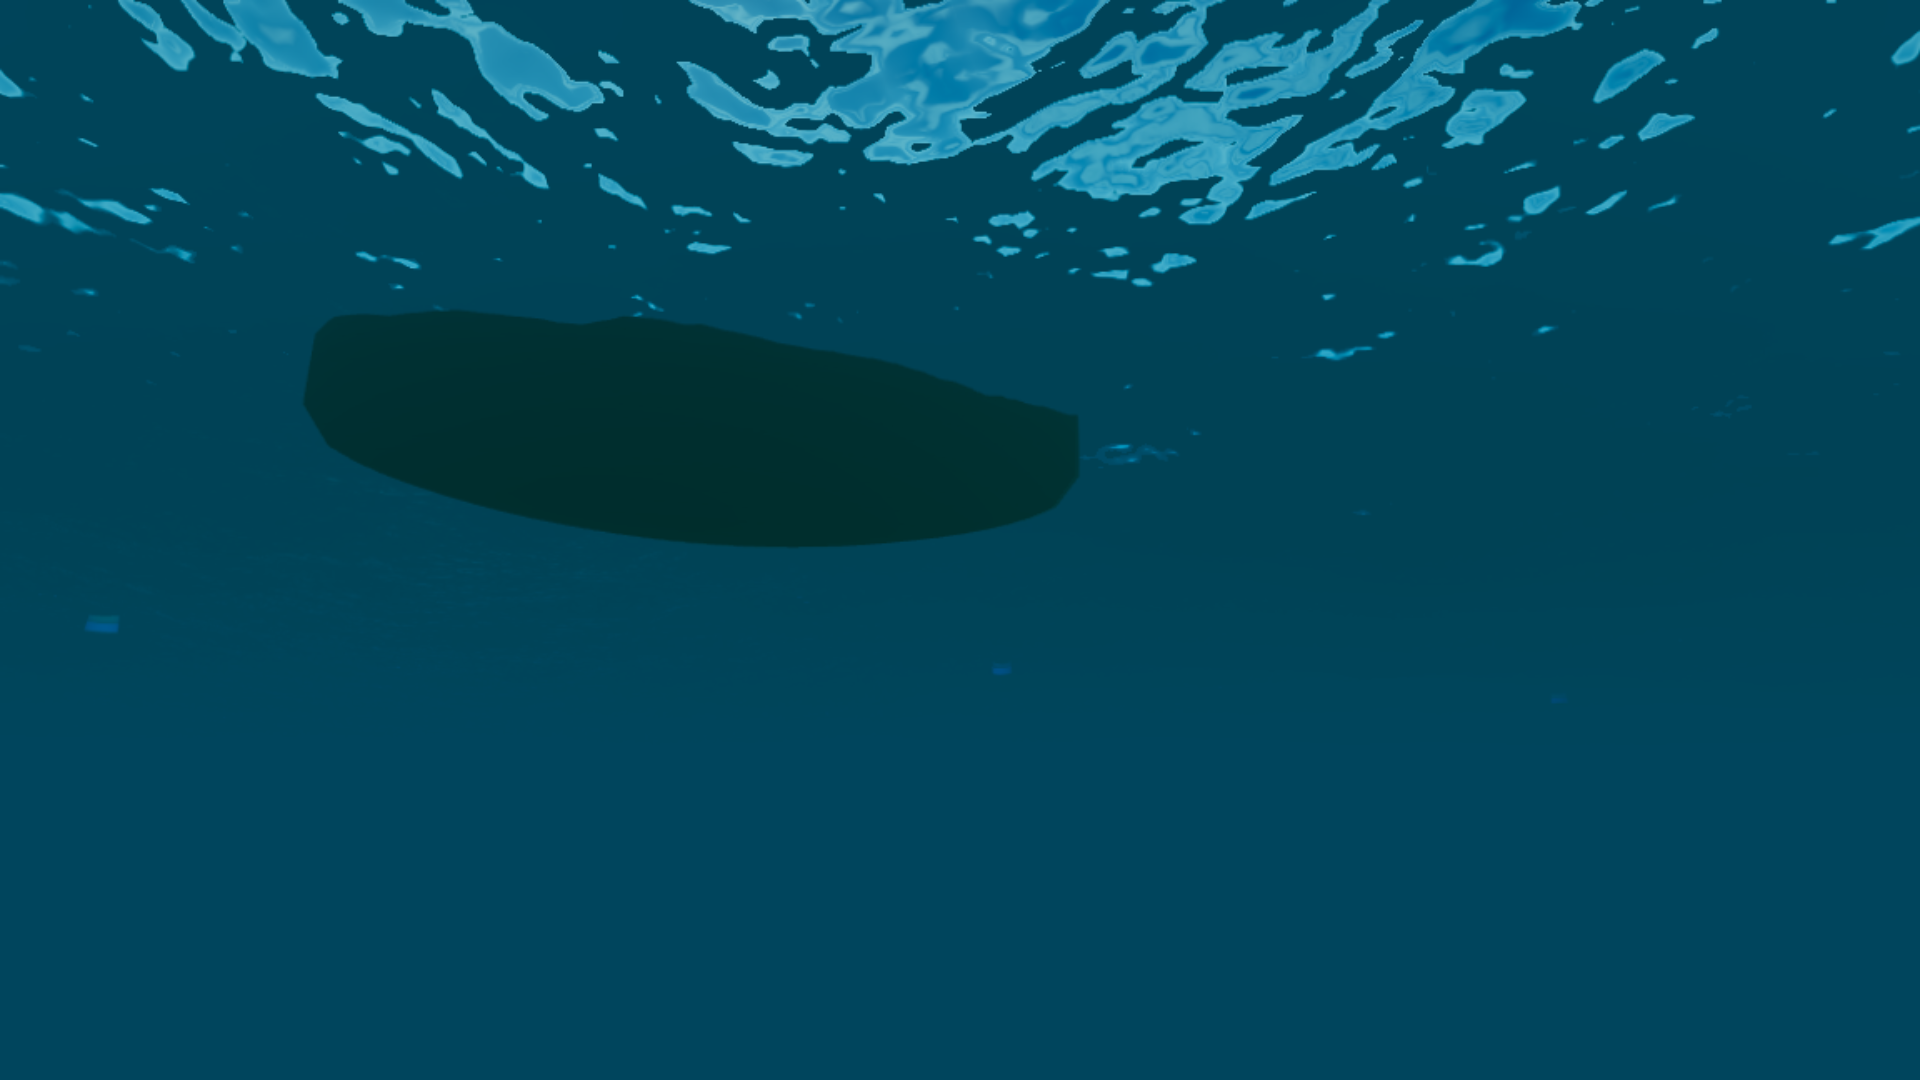
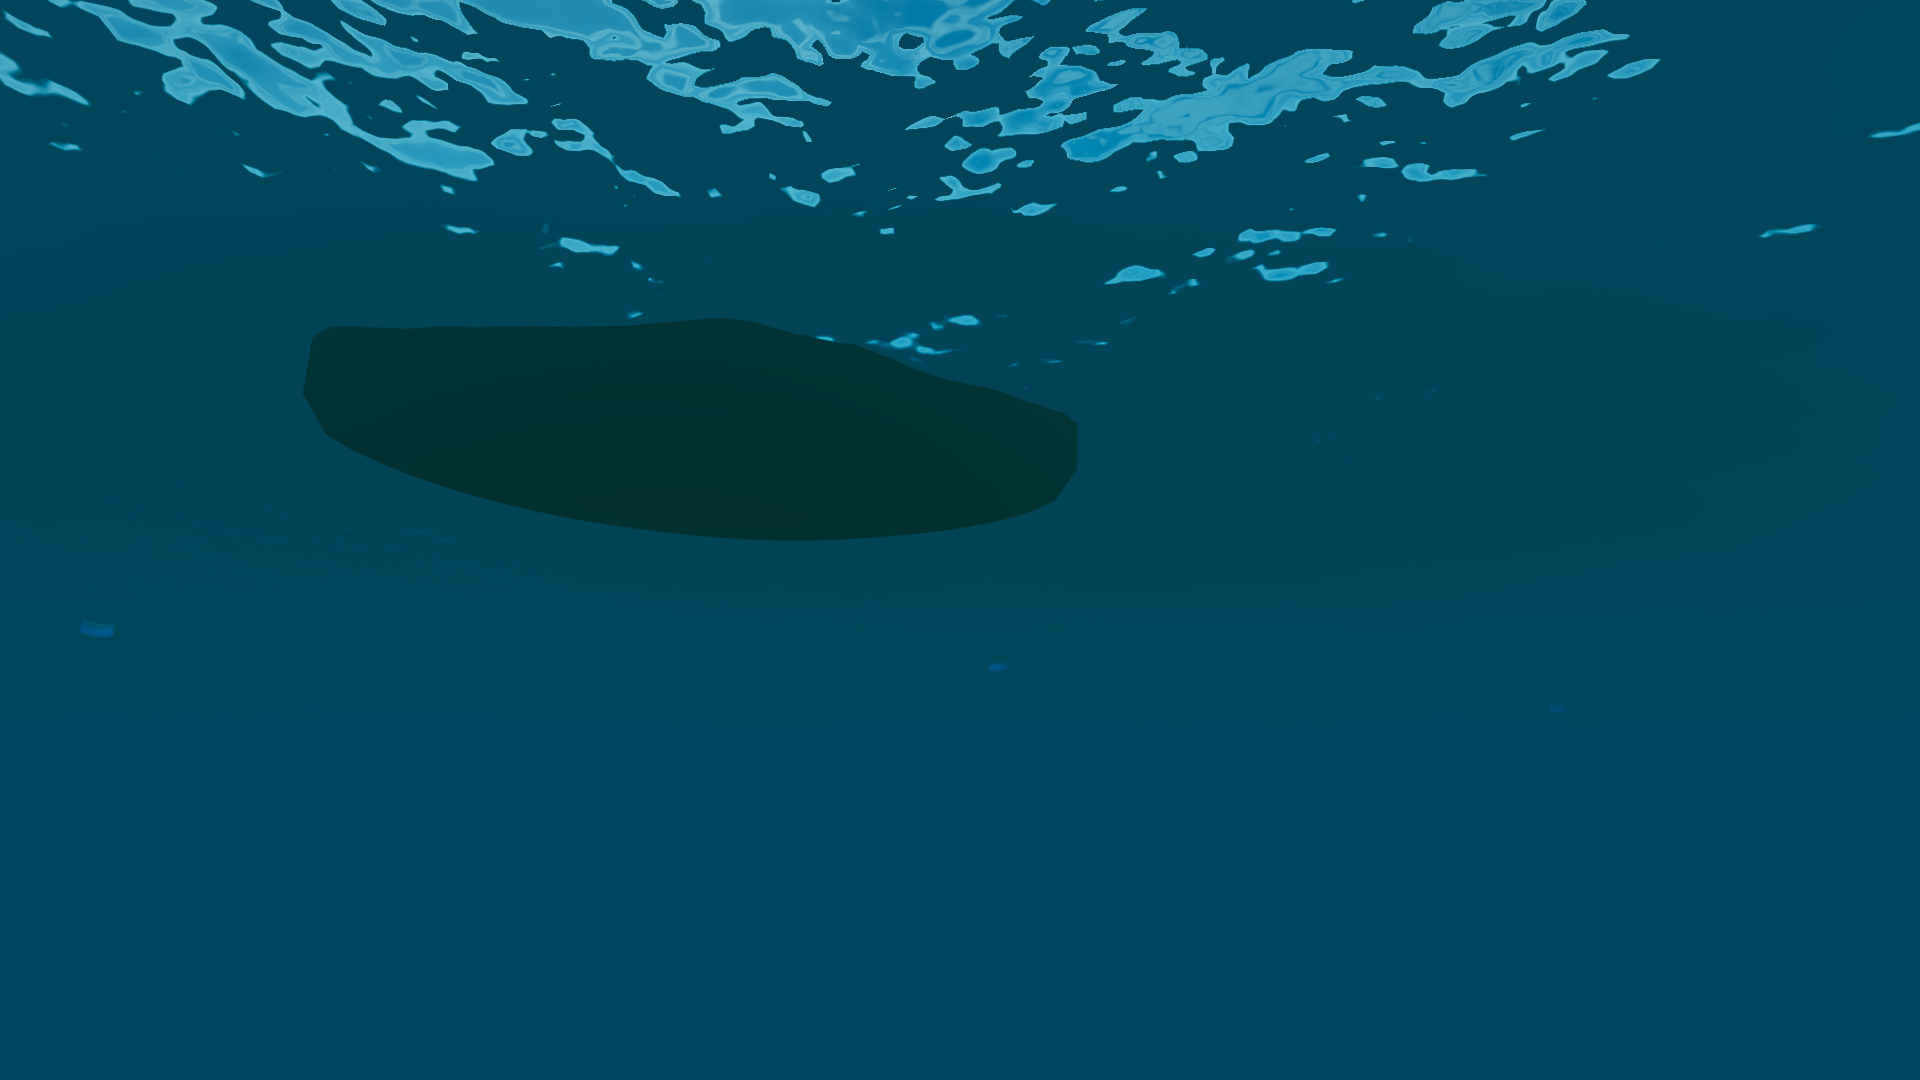
Draw the caustic on the cell boundaries instead of the cell centres
Worley's F1 distance is zero at a cell's centre and largest at its boundary, so
`1 - min(w1, w2)` peaks at the centres; raising that to the seventh power
isolated them completely. The lagoon floor was covered in round blobs on a
hexagonal lattice — bubble wrap — while the comment above it claimed thin
filaments. Light folded by a wave surface concentrates on *curves*, so the web
is now drawn where the two fields agree, with an exponential rather than a
power so the line width is set directly instead of emerging from an exponent
that has to be re-guessed whenever either field's scale moves. A second coarser
crossing set on top, because real caustics are not one scale: the swell throws
a broad slow web that the chop writes detail onto.

Cells were 2.4 m across, which is a caustic the size of a dinner table. On a
bottom a few metres down the web is finer than a pace.

The reef read as a smudge because the bottom's only texture was isotropic
noise, and several metres of water low-pass it into nothing. Sand ripples
survive the column where noise cannot, because they are oriented — the eye
reconstructs a direction from far less contrast than it needs for a texture.
Their heading wanders with the local flow.

Console errors 0, both lagoon presets re-shot.

diff --git a/src/ocean/shading.js b/src/ocean/shading.js
@@ -79,9 +79,17 @@ export const rippleSlope = /*@__PURE__*/ Fn( ( [ p, time, wind, strength, dist ]
 /**
  * Procedural caustics.
  *
- * Two counter-drifting Worley fields, inverted and sharpened, give the
- * characteristic bright interlocking web. Taking the min of the two produces
- * the ridge crossings where real caustics concentrate.
+ * Two counter-drifting Worley fields. The bright web is drawn where the two
+ * fields *agree* — a set of wandering curves through the plane, which is the
+ * right topology for a caustic: light folded by the surface concentrates on
+ * curves (the fold caustics), not on points.
+ *
+ * The previous version took `1 - min(w1, w2)`. Worley's F1 distance is zero at
+ * a cell's centre and largest at its boundary, so inverting it peaks at the
+ * centres, and raising that to the seventh power isolated them completely: the
+ * result was round blobs on a hexagonal lattice, covering the whole lagoon
+ * floor in what looked like bubble wrap. It is the exact opposite of the
+ * intended figure, and the comment above it claimed filaments throughout.
  *
  * @param {Node<vec2>}  p      world XZ of the lit surface
  * @param {Node<float>} time
@@ -89,7 +97,9 @@ export const rippleSlope = /*@__PURE__*/ Fn( ( [ p, time, wind, strength, dist ]
  */
 export const causticPattern = /*@__PURE__*/ Fn( ( [ p, time ] ) => {
 
-	const q = p.mul( 0.42 ).toVar();
+	// Cells were 2.4 m across, which is a caustic the size of a dinner table.
+	// On a bottom a few metres down the web is finer than a pace.
+	const q = p.mul( 1.15 ).toVar();
 	const t = time.mul( 0.42 ).toVar();
 
 	const w1 = mx_worley_noise_float( q.add( vec2( t.mul( 0.21 ), t.mul( - 0.13 ) ) ), 1.0, 1 ).toVar();
@@ -97,10 +107,16 @@ export const causticPattern = /*@__PURE__*/ Fn( ( [ p, time ] ) => {
 		q.mul( 1.63 ).add( vec2( t.mul( - 0.16 ), t.mul( 0.24 ) ) ).add( 19.7 ), 1.0, 1
 	).toVar();
 
-	const ridge = oneMinus( min( w1, w2 ) ).toVar();
-
-	// Sharpen into thin bright filaments rather than soft blobs.
-	const c = pow( saturate( ridge ), 7.0 ).mul( 2.6 ).toVar();
+	// Bright where the two fields cross. An exponential rather than a power
+	// because the line width is then set directly, in units of the difference,
+	// instead of emerging from an exponent that has to be re-guessed whenever
+	// either field's scale moves.
+	const c = exp( abs( w1.sub( w2 ) ).mul( - 13.0 ) ).mul( 2.2 )
+		// A second, coarser crossing set. Real caustics are not one scale: the
+		// long swell throws a broad slow web that the chop writes fine detail
+		// onto, and their product is what makes the pattern look focused.
+		.mul( exp( abs( w1.mul( 0.31 ).sub( w2.mul( 0.29 ) ) ).mul( - 5.0 ) ).mul( 0.55 ).add( 0.62 ) )
+		.toVar();
 
 	// A slow large-scale modulation so the web breathes instead of tiling flat.
 	const breathe = sin( p.x.mul( 0.021 ).add( time.mul( 0.31 ) ) )
@@ -187,9 +203,25 @@ export const seabedAlbedo = /*@__PURE__*/ Fn( ( [ p, sand ] ) => {
 	// it. Authoring the preset colour at full brightness and then multiplying by
 	// one meant a shallow bottom out-ran the water above it: the column had
 	// nothing left to tint and the lagoon came out near-white.
-	const base = sand.mul( float( 0.30 ).add( grain.mul( 0.22 ) ) );
+	// Sand ripples. A lagoon floor under any swell at all is corrugated into
+	// near-parallel bands about a third of a metre apart, and their direction
+	// wanders slowly with the local flow. Without them the bottom is a noise
+	// field, and a noise field several metres down low-passes into a smudge —
+	// which is exactly how the reef read. Ripples survive the column because
+	// they are *oriented*: the eye reconstructs a direction from far less
+	// contrast than it needs to reconstruct a texture.
+	const drift = mx_fractal_noise_float( vec3( p.mul( 0.014 ).add( 41.3 ), 0.0 ), 2, 2.0, 0.5 ).mul( 1.9 );
+	const along = p.x.mul( cos( drift ) ).add( p.y.mul( sin( drift ) ) );
+	const ripple = sin( along.mul( 19.0 ) ).mul( 0.5 ).add( 0.5 );
 
-	return mix( base, base.mul( vec3( 0.14, 0.24, 0.20 ) ), weed.mul( 0.92 ) );
+	// Crest-sharpened: a sand ripple has a rounded crest and a flat trough, so
+	// the lit face is the narrower one.
+	const corrugation = pow( ripple, 1.8 ).mul( 0.16 ).add( 0.92 );
+
+	const base = sand.mul( float( 0.30 ).add( grain.mul( 0.22 ) ) ).mul( corrugation );
+
+	// Weed does not grow in ripples, so it flattens them where it takes hold.
+	return mix( base, sand.mul( 0.30 ).mul( vec3( 0.14, 0.24, 0.20 ) ), weed.mul( 0.92 ) );
 
 } );
 
